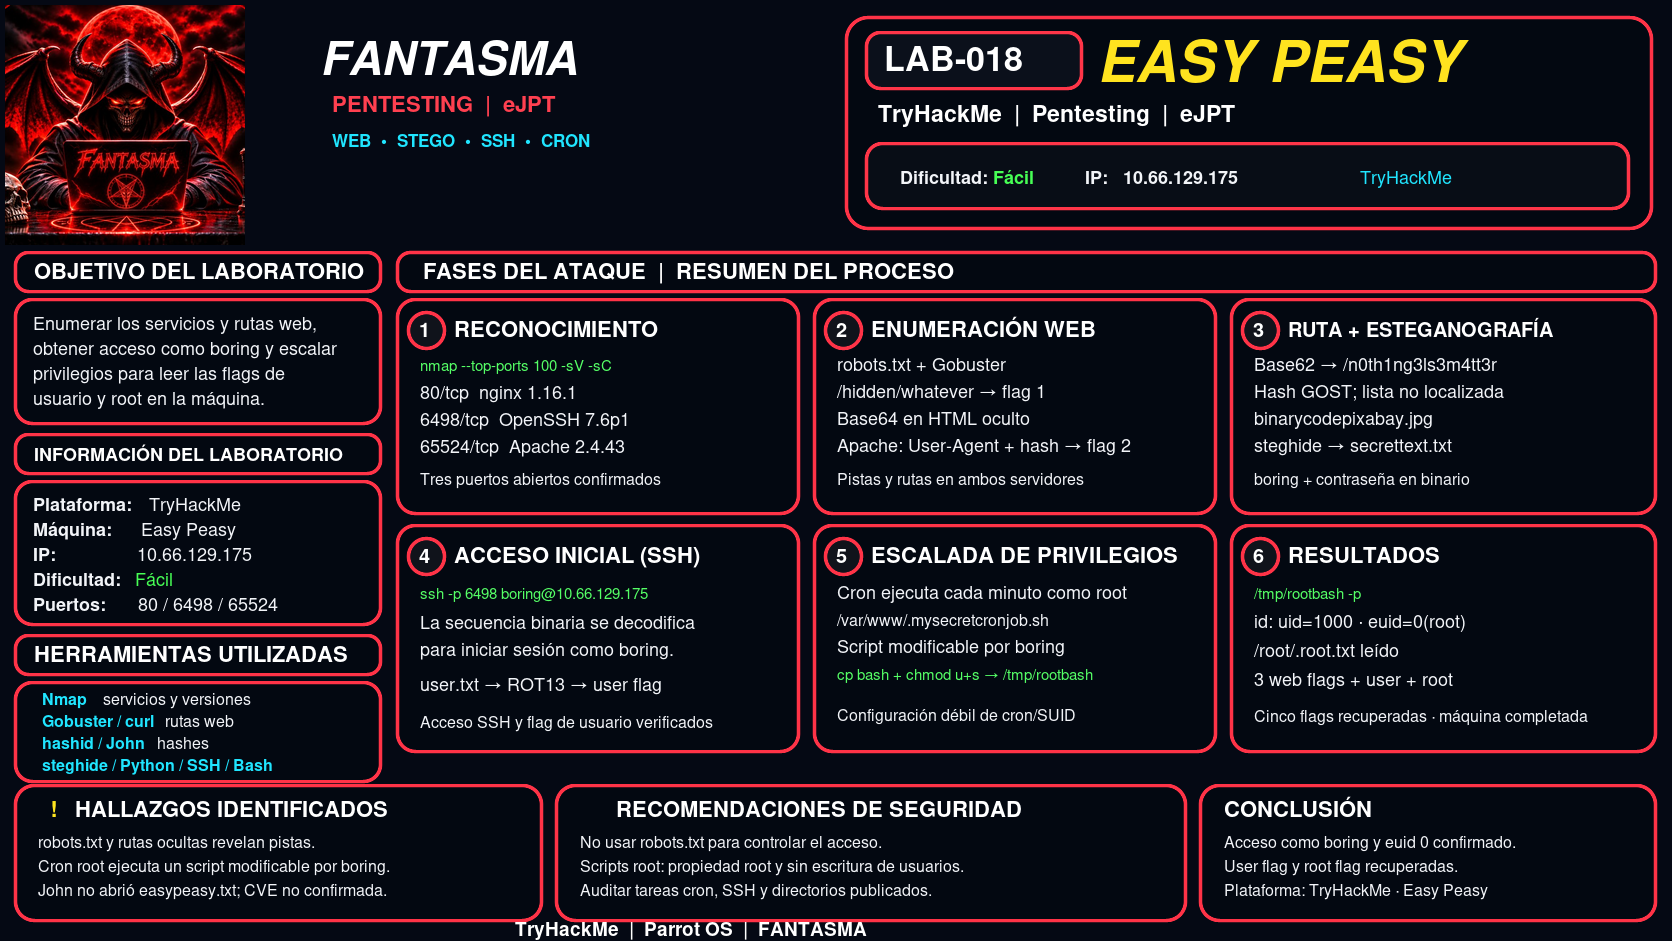
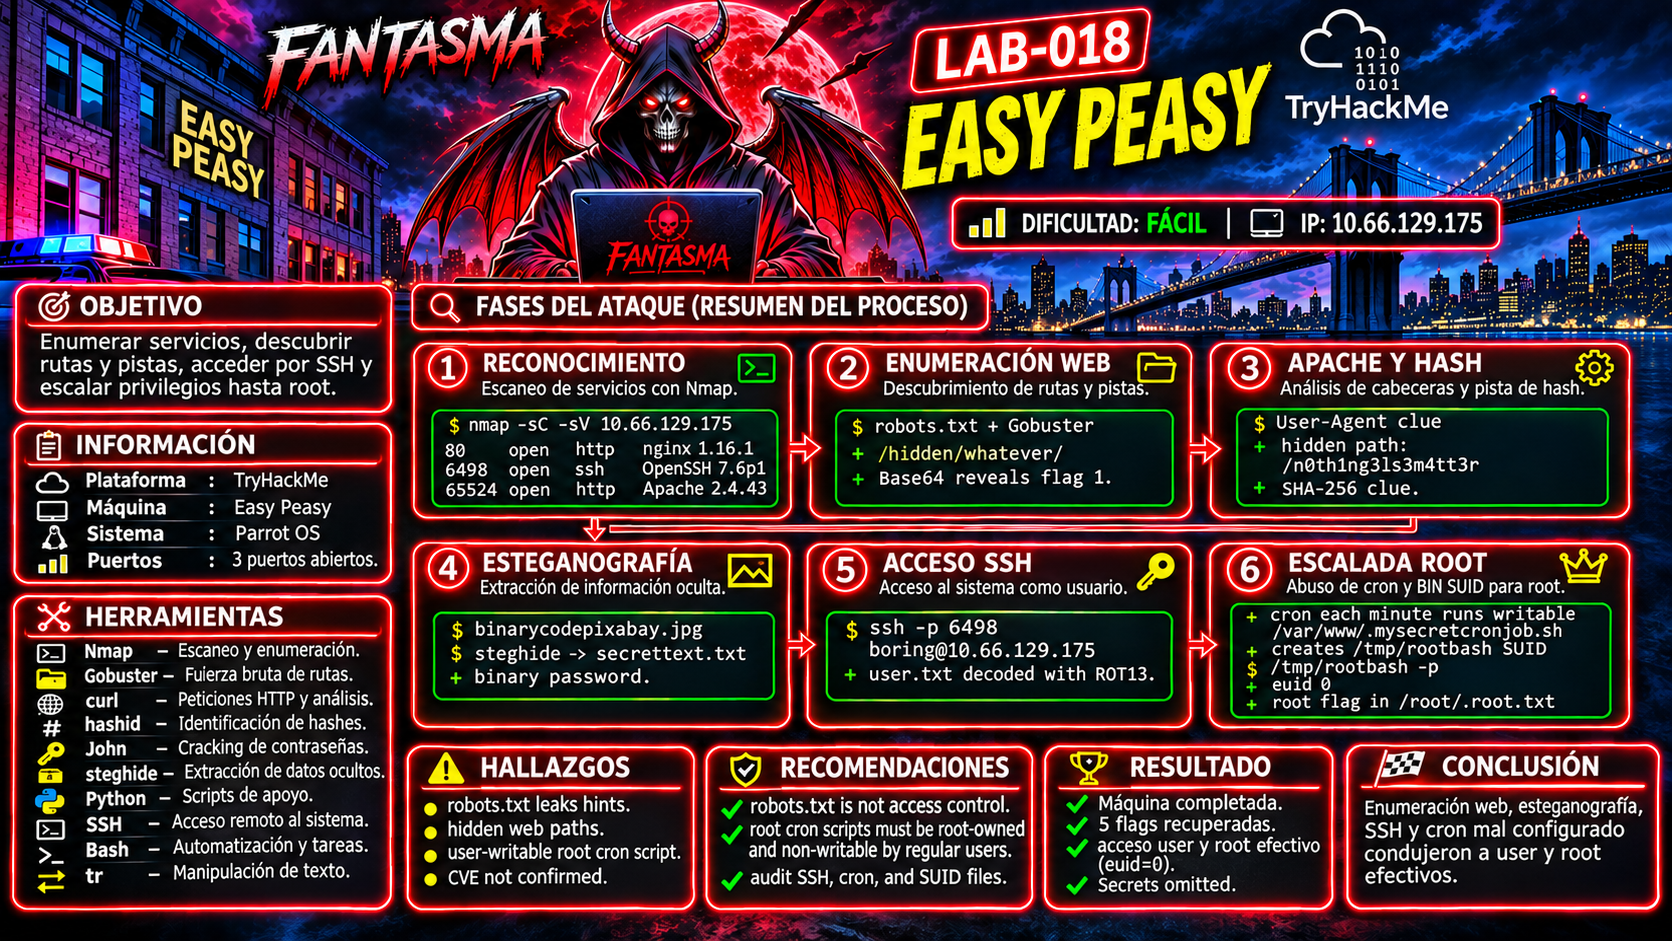
Replace LAB-018 cover with FANTASMA infographic

diff --git a/04-Imagenes/README.md b/04-Imagenes/README.md
@@ -1,7 +1,5 @@
 # Portada LAB-018 Easy Peasy
 
-Archivo principal: LAB-018-EASY-PEASY.png.
+Archivo principal: `LAB-018-EASY-PEASY.png`.
 
-Infografía panorámica según la plantilla FANTASMA de los laboratorios anteriores: avatar original, título, dificultad, IP, objetivo, servicios, herramientas, seis fases, comandos, resultados, hallazgos, recomendaciones y conclusión. La descripción breve del laboratorio aparece inmediatamente bajo el título del README. Las flags y credenciales no se muestran en la versión pública.
-
-LAB-018-EASY-PEASY.svg es la fuente vectorial editable y utiliza FANTASMA_avatar_TryHackMe.jpg.
+La infografía panorámica sigue la composición de las portadas FANTASMA anteriores: identidad visual, datos de la máquina, objetivo, herramientas, seis fases, terminales, hallazgos, recomendaciones y resultado. Las flags y las credenciales se omiten en la versión pública.
